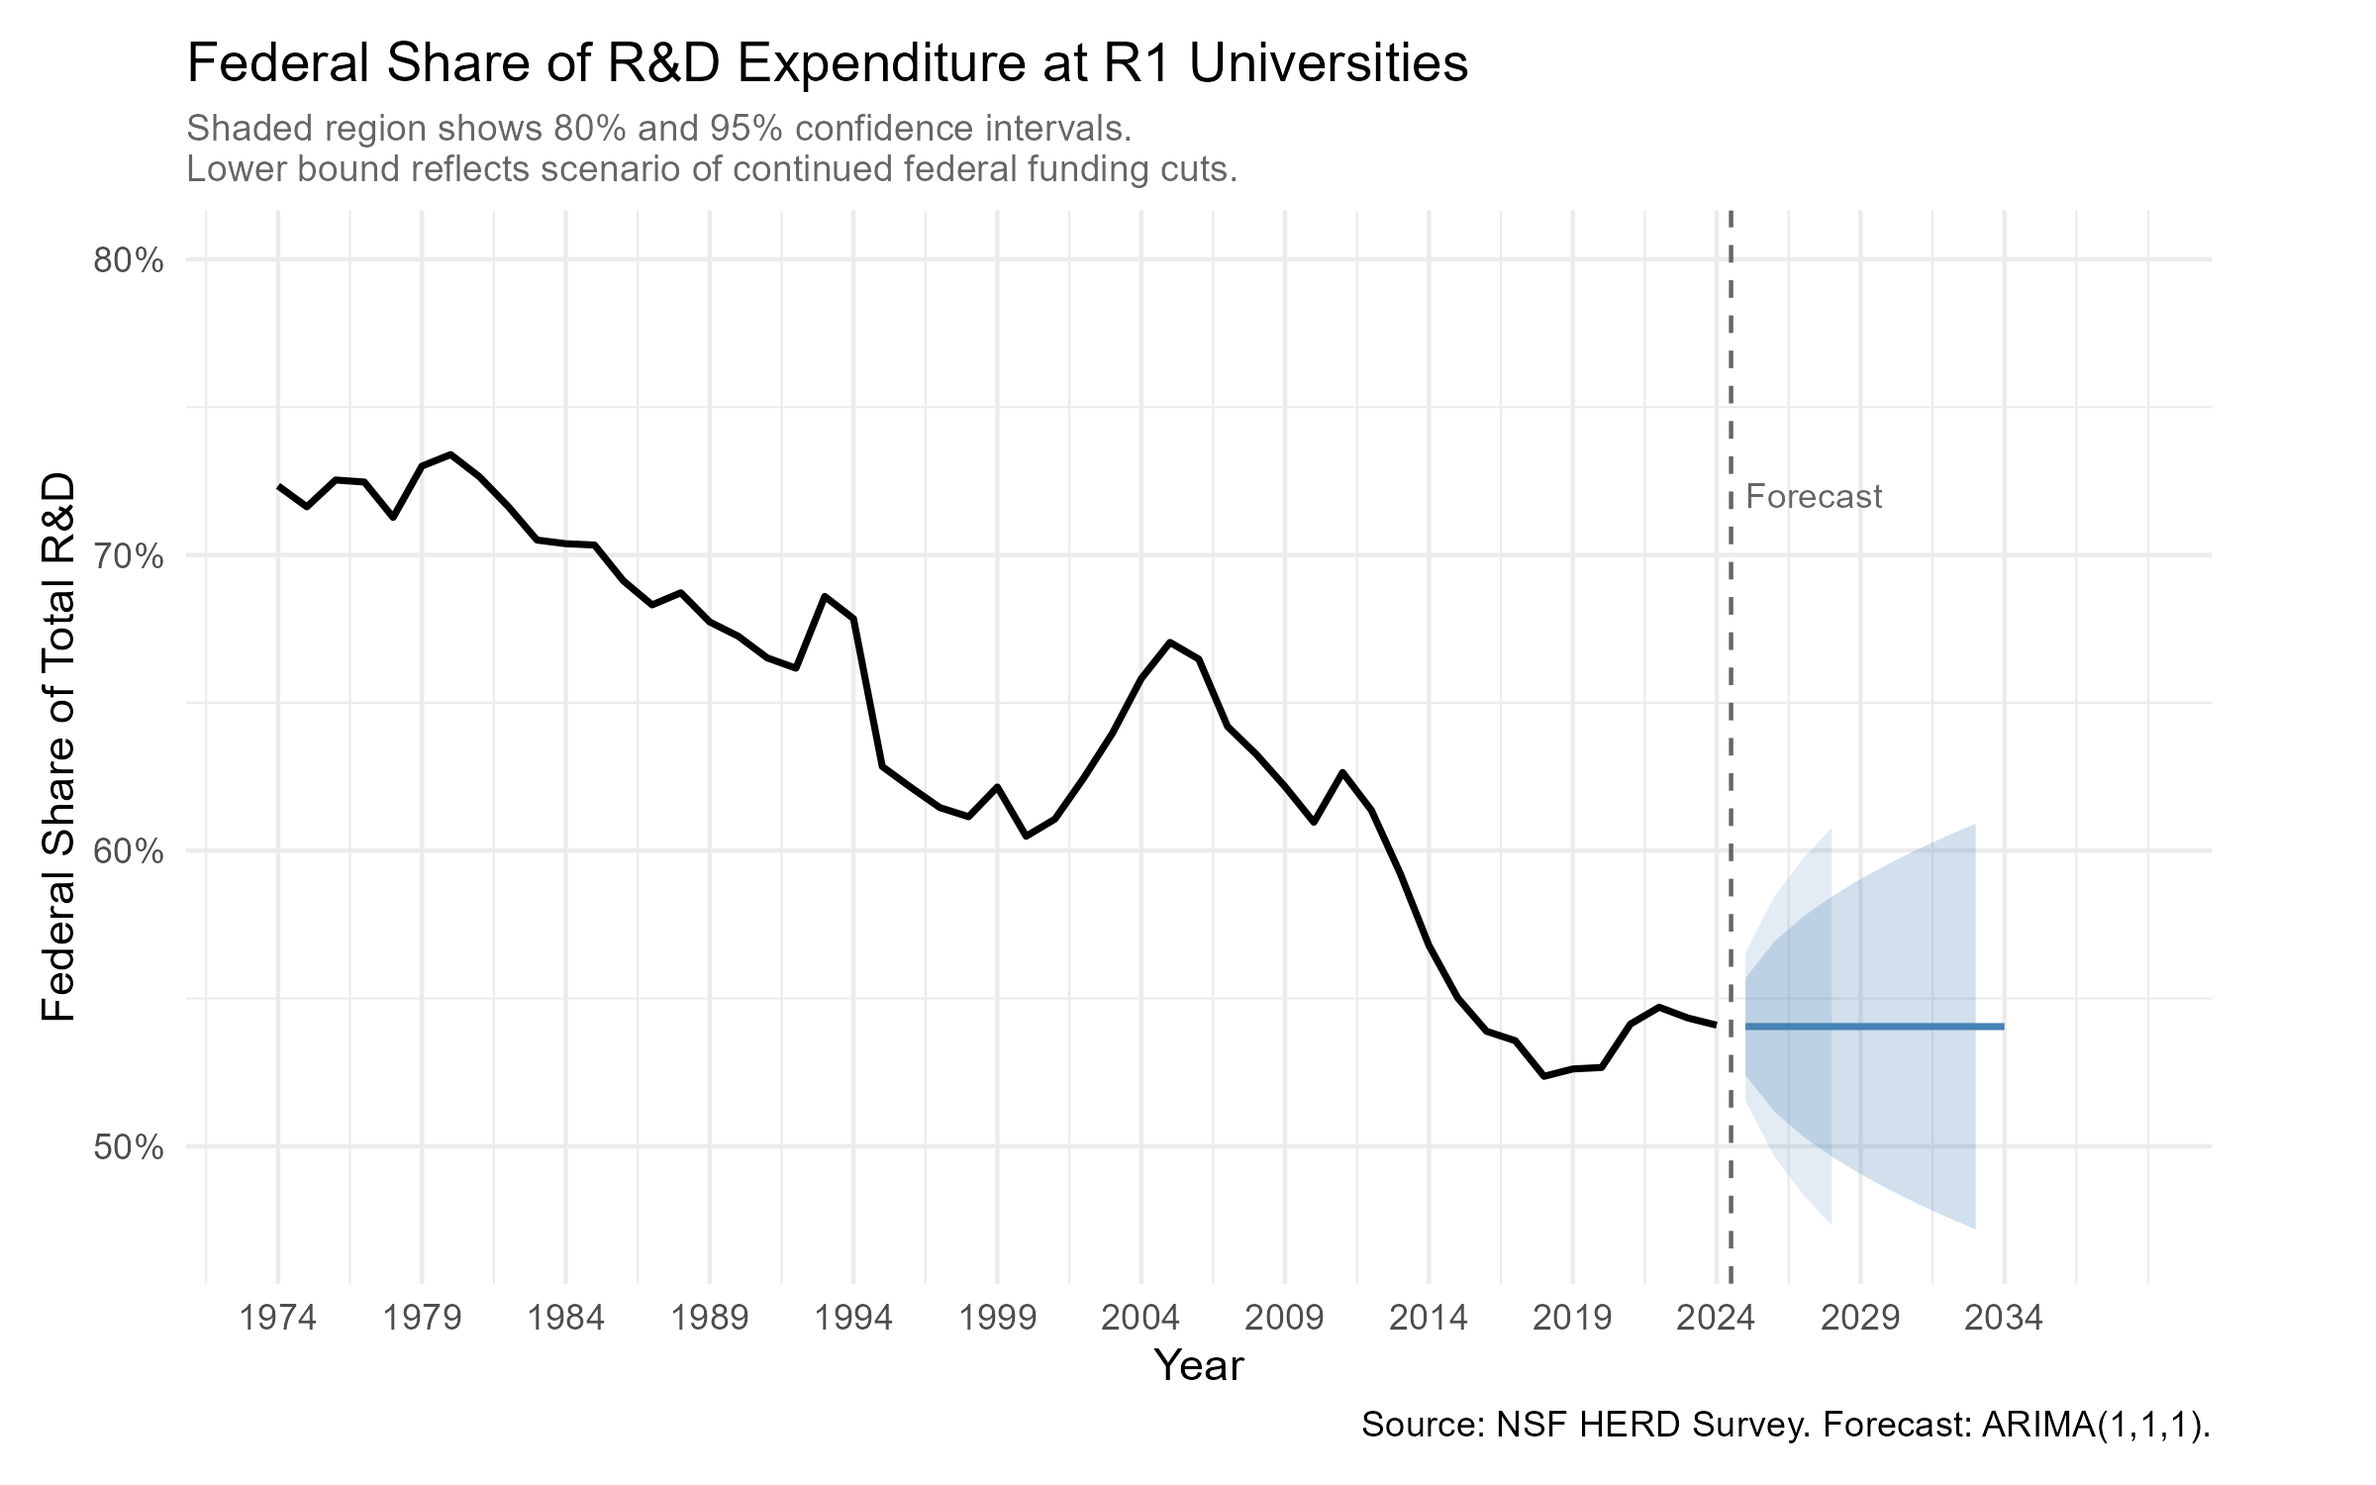
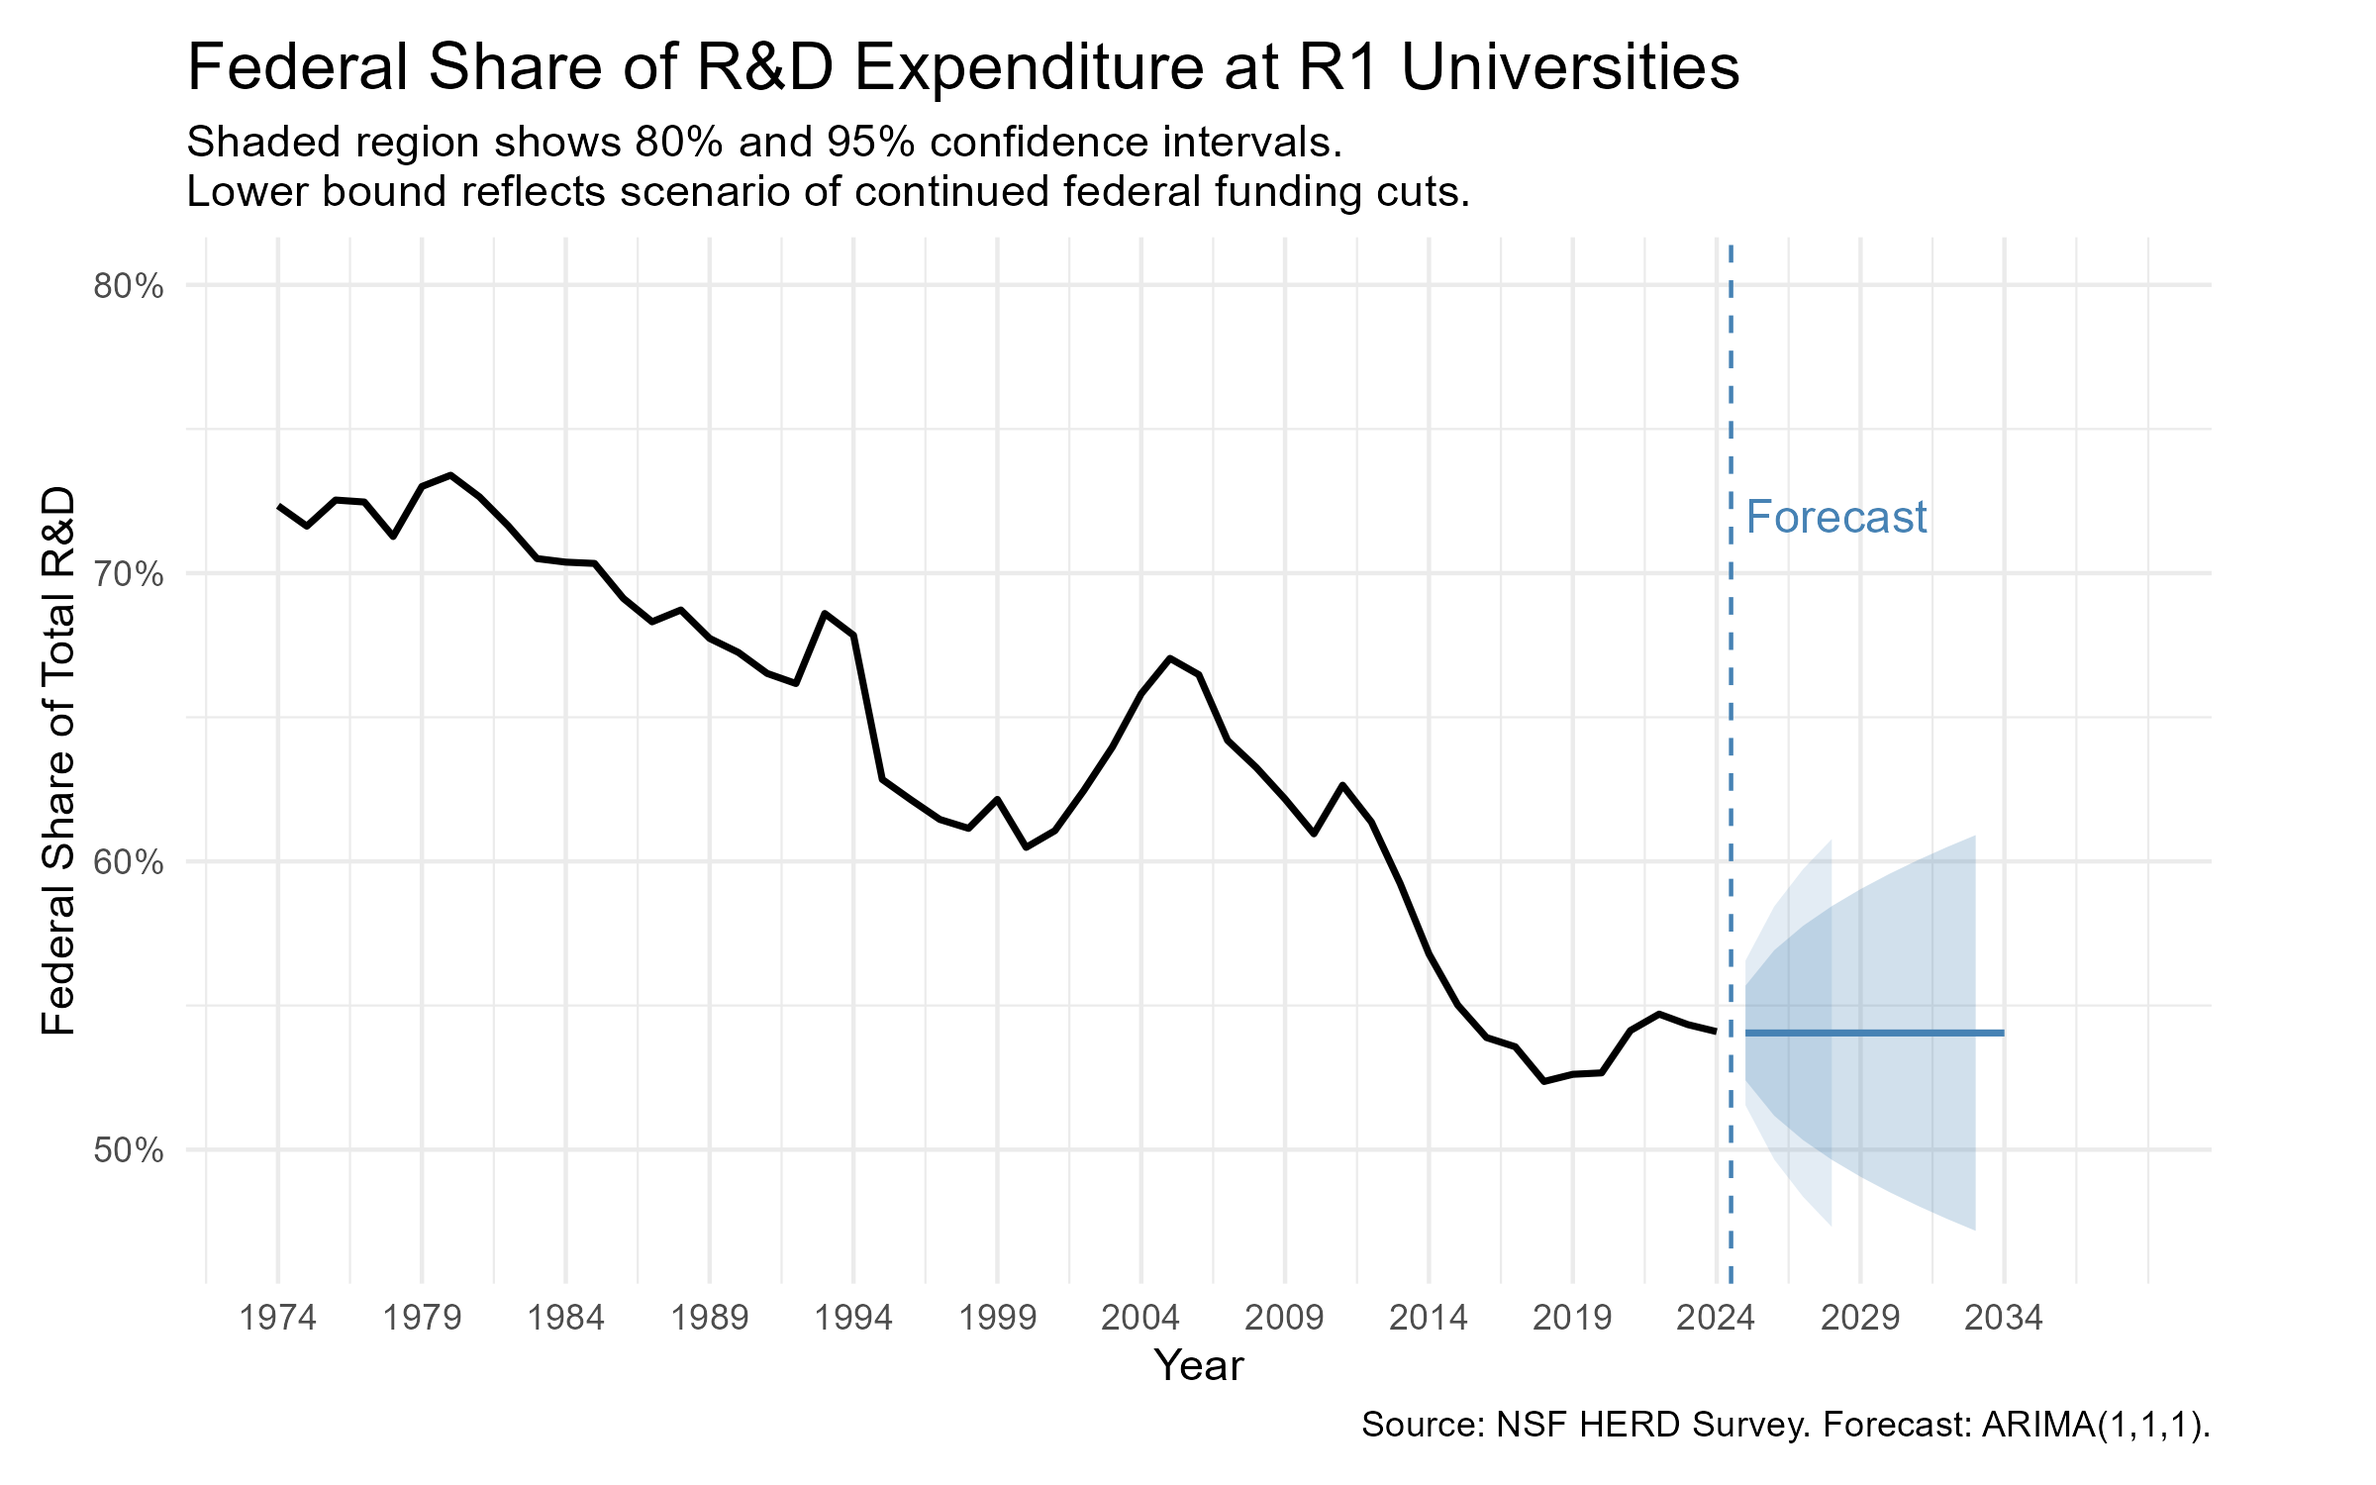
updated figures and scripts and page.

diff --git a/index.html b/index.html
@@ -143,20 +143,24 @@ ul.task-list li input[type="checkbox"] {
 <section id="national-trend-in-federal-dependency" class="level3">
 <h3 class="anchored" data-anchor-id="national-trend-in-federal-dependency">National Trend in Federal Dependency</h3>
 <p>Federal funding has declined as a share of total R1 R&amp;D expenditure since the 1970s, falling from roughly 75% to 55% over five decades. A linear model confirms the decline is statistically significant — approximately 0.004 percentage points per year (p &lt; 0.001, R² = 0.81) — meaning year alone explains 81% of the variance in federal dependency. The decline is not explained by Carnegie classification cycles — the long-run downward trend is consistent across every era of the classification system, reflecting a structural shift in how R1 institutions fund research rather than responses to any particular policy change.</p>
+<p>Figure 1 shows a clear long-run decline punctuated by short-term fluctuations — most notably a temporary recovery around 2004–2006 and a sharp drop following 2010 as ARRA stimulus funds expired. Unlike dollar-based analyses where past values appear artificially low without inflation adjustment, proportions are directly comparable across time and striking. Federal funding has fallen as a share of total R1 R&amp;D — from 75% in 1974 to 55% in 2024 — even as both federal and total expenditures grew in absolute terms. The forecast projects stabilization near 55% under historical trends, but the wide confidence interval reflects genuine uncertainty: the lower bound of the 95% interval reaches approximately 47%, which is consistent with scenarios involving sustained federal cuts of the magnitude currently being implemented. The flat central forecast is not reassurance — it is a baseline that assumes no structural break and also does not include the 2025 data, yet to be released. The 2025 will likely have a negative impact on outlooks due to the sharp decline in federal investment in science and technology that has yet to be offset by industry.</p>
+<p>The series is punctuated by two notable peaks — one in the mid-1990s tied to post-Cold War growth in civilian R&amp;D investment, and one around 2004 driven by the NIH budget doubling campaign of 1998–2003 flowing through to university expenditures. A brief recovery around 2010–2011 reflects Obama-era ARRA stimulus before funds expired, producing the sharpest single decline in the series. Recovery from the 2008 financial crisis has been incomplete.</p>
 <p><strong>Figure 1. Federal share of R&amp;D expenditure at R1 universities, 1974–2024, with ARIMA(1,1,1) forecast through 2034. Shaded regions show 80% and 95% confidence intervals.</strong></p>
 <p><img src="outputs/federal-dependency-forecast.png" class="img-fluid"></p>
-<p><strong>Interpretation:</strong> The historical series shows a clear long-run decline punctuated by short-term fluctuations — most notably a temporary recovery around 2004–2006 and a sharp drop following 2010 as ARRA stimulus funds expired. These figures are in nominal terms; adjusting for inflation would show an even steeper decline in the real purchasing power of federal research dollars at R1 institutions. The forecast projects stabilization near 55% under historical trends, but the wide confidence interval reflects genuine uncertainty: the lower bound of the 95% interval reaches approximately 47%, which is consistent with scenarios involving sustained federal cuts of the magnitude currently being implemented. The flat central forecast is not reassurance — it is a baseline that assumes no structural break. The 2025 cuts are precisely such a break.</p>
+<p><strong>Interpretation:</strong> The long-run decline is visible across the full series, with the peaks and recovery tied to science and technology policy during those years. The forecast projects stabilization near 55% under historical trends, but the wide confidence interval reflects genuine uncertainty — the lower bound reaches approximately 47%, consistent with scenarios of sustained federal austerity. The flat central forecast is not reassurance; it assumes no structural break. CAVEAT: The data are not yet available for 2025, a year with extreme cuts to federal science investment that will very likely change projections negatively.</p>
 </section>
 <section id="geographic-distribution-of-federal-dependency" class="level3">
 <h3 class="anchored" data-anchor-id="geographic-distribution-of-federal-dependency">Geographic Distribution of Federal Dependency</h3>
-<p>Federal dependency is not uniform across states. The animated map shows each state’s federal share of R1 R&amp;D expenditure relative to the national average in each year, classified into five natural groups using Jenks breaks on standardized scores.</p>
+<p>The animated map shows each state’s federal share of R1 R&amp;D expenditure relative to the national average in each year, classified into five natural groups using Jenks breaks on standardized scores.The visualization choice makes changes visible in a format designed for a policy audience: every member of Congress can find their state and immediately see whether their district’s R1 institutions are above or below the national average, and how that has changed over time. The accompanying benchmarking tables identify which states face the highest dependency and greatest volatility — directly actionable for advocacy.</p>
+<p>Federal dependency is not uniform across states — and the geographic pattern has shifted substantially over fifty years. The expansion of R1 institutions across Carnegie cycles is visible in the map as states appear for the first time in 2000 and 2005. Several striking patterns emerge. Maryland has the highest and most sustained dependency throughout the series, reflecting a research portfolio dominated by federal health and defense investment, though it has declined from over 90% in the 1970s to 63% by 2021. California shows the most dramatic long-run decline — from 89% in 1973 to 56% by 2015 — as the UC system diversified its funding base. Ohio jumps sharply from around 60% to over 80% in 2010 and holds there, likely reflecting growth in federally funded research at Ohio State. Alabama nearly doubles its dependency between 2000 and 2005. Rhode Island is the most volatile state in the series, swinging from 63% to 37% in a single cycle before rebounding to 69%. Tennessee shows the reverse — high early dependency above 85% declining sharply to 42% by 2021.</p>
 <p><strong>Figure 2. Animated choropleth map of federal R&amp;D dependency at R1 universities by state, 1974–2024. Darker colors indicate higher federal dependency relative to the national average. Grey indicates no R1 institution in the HERD data for that year.</strong></p>
 <p><img src="outputs/federal-dependency-map.gif" class="img-fluid"></p>
-<p><strong>Interpretation:</strong> High-dependency states — those consistently above the national average — tend to be home to institutions with large federal research portfolios concentrated in defense, health, and basic science. Low-dependency states often have strong industry partnerships or large institutional research funds that offset federal reliance. The temporal animation reveals that the geographic pattern of dependency has shifted over time, with some states moving from below-average to above-average dependency as their R1 institutions grew their federal portfolios faster than other revenue sources.</p>
+<p><strong>Interpretation:</strong> High-dependency states tend to concentrate federal portfolios in defense, health, and basic science — the fields most exposed to current cuts. Low-dependency states have diversified revenue bases that provide some buffer. The temporal animation reveals a gradual geographic redistribution of dependency over fifty years, with the most striking shifts tied to specific funding events visible in the time series.</p>
 </section>
 <section id="benchmarking-federal-dependency-across-states-and-carnegie-cycles" class="level3">
 <h3 class="anchored" data-anchor-id="benchmarking-federal-dependency-across-states-and-carnegie-cycles">Benchmarking Federal Dependency Across States and Carnegie Cycles</h3>
-<p>Four tables characterize federal dependency patterns across states and Carnegie cycles.</p>
+<p>Federal dependency patterns vary substantially across states and over time. Table 1 establishes benchmark thresholds using Jenks natural breaks — the five dependency classes define what high, average, and low dependency look like across the full fifty-year series. Table 2 identifies the highest and lowest dependency states by the most recent Carnegie cycle, showing how their positions have shifted across eras. Tables 3 through 6 characterize volatility — which states experience the most year-to-year variation in federal dependency and which show the largest swings — identifying where the current cuts will land hardest.</p>
+<p>The benchmark thresholds in <strong>Table 1</strong> show that high-dependency states average 79% federal share — more than double the low-dependency average of 37%. The gap between classes is substantial and consistent, confirming that federal dependency is not a continuum but a meaningful structural divide among R1 states.</p>
 <p><strong>Table 1. Federal dependency benchmark metrics by Jenks classification. Values represent state-year combinations across the full time series.</strong></p>
 <table class="caption-top table">
 <thead>
@@ -206,6 +210,7 @@ ul.task-list li input[type="checkbox"] {
 </tr>
 </tbody>
 </table>
+<p>In <strong>Table 2</strong>, Colorado and Ohio have maintained high dependency across nearly every Carnegie cycle, while Rhode Island is notable for its volatility — dropping sharply in 2010 before rebounding. The low-dependency states — Arkansas, North Dakota, and Nebraska — are newer entrants to the R1 category with smaller and more diversified research portfolios.</p>
 <p><strong>Table 2. Highest and lowest federal dependency states by 2021 Carnegie cycle. Values are mean federal share of total R1 R&amp;D expenditure per cycle. – indicates no R1 institution in HERD data for that cycle.</strong></p>
 <table class="caption-top table">
 <colgroup>
@@ -325,6 +330,7 @@ ul.task-list li input[type="checkbox"] {
 </tr>
 </tbody>
 </table>
+<p><strong>Table 3 and Table 4</strong> show the most and least sensitive states by standard deviation — a measure of year-to-year variability in federal dependency. Iowa, Tennessee, North Carolina, Washington, and California show the highest variability, meaning their federal share fluctuates most dramatically across the series. Vermont, New Mexico, Maine, Nevada, and Minnesota are the most stable, with federal dependency changing little from year to year.</p>
 <div class="columns">
 <div class="column" style="width:50%;">
 <p><strong>Table 3. Most sensitive states (highest SD), 1974–2024.</strong></p>
@@ -364,6 +370,7 @@ ul.task-list li input[type="checkbox"] {
 </tr>
 </tbody>
 </table>
+</div><div class="column" style="width:50%;">
 <p><strong>Table 4. Least sensitive states (lowest SD), 1974–2024.</strong></p>
 <table class="caption-top table">
 <thead>
@@ -401,7 +408,11 @@ ul.task-list li input[type="checkbox"] {
 </tr>
 </tbody>
 </table>
-</div><div class="column" style="width:50%;">
+</div>
+</div>
+<p><strong>Table 5 and Table 6</strong> capture the full range of swings — the difference between a state’s highest and lowest federal dependency across the series. Iowa reaches as high as 90% and as low as 33%, a 57-point swing. North Carolina touches 95% at its peak. Vermont and Maine show the narrowest bands, suggesting insulation from federal funding cycles. The overlap between the most sensitive and biggest-swing states confirms structural exposure rather than random fluctuation.</p>
+<div class="columns">
+<div class="column" style="width:50%;">
 <p><strong>Table 5. Biggest swings in federal dependency (highest range), 1974–2024.</strong></p>
 <table class="caption-top table">
 <thead>
@@ -445,6 +456,7 @@ ul.task-list li input[type="checkbox"] {
 </tr>
 </tbody>
 </table>
+</div><div class="column" style="width:50%;">
 <p><strong>Table 6. Smallest swings in federal dependency (lowest range), 1974–2024.</strong></p>
 <table class="caption-top table">
 <thead>
@@ -510,7 +522,7 @@ ul.task-list li input[type="checkbox"] {
 </section>
 <section id="next-steps" class="level2">
 <h2 class="anchored" data-anchor-id="next-steps">Next Steps</h2>
-<p>Three additional analyses are in progress using the HERD data to characterize the field-level and agency-level dimensions of federal dependency:</p>
+<p>In addition to updating the analysis with HERD 2025 when available, the analysis could be extended to using the HERD data to characterize the field-level and agency-level dimensions of federal dependency:</p>
 <ul>
 <li><strong>Federal expenditures by field and agency</strong> — examining which research fields (life sciences, engineering, physical sciences, social sciences, and non-S&amp;E fields) are most exposed to agency-specific cuts, particularly NIH, NSF, DOD, and DOE.</li>
 <li><strong>Capital expenditures by field</strong> — examining infrastructure investment patterns as a downstream indicator of federal dependency.</li>
